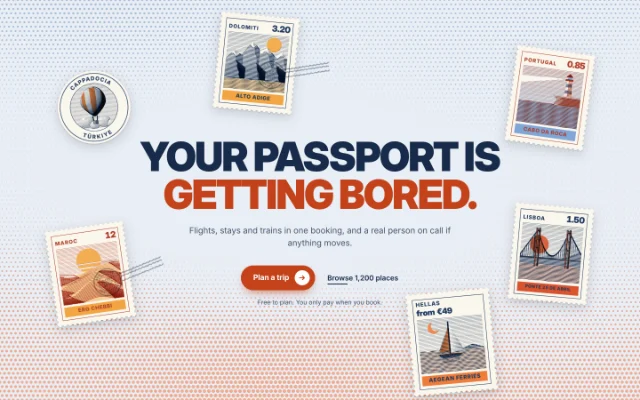
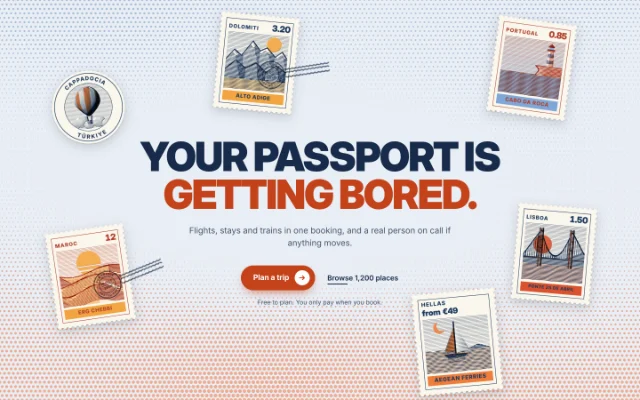
postmark-cta: round 1 fixes (voyage engravings, postmark placement and ink, CTA hover, rotated safe zone, postDelay)
Claude-Session: https://claude.ai/code/session_01LFCWVBYwCJCTStazoGiZv5

diff --git a/components/postmark-cta/postmark-cta.tsx b/components/postmark-cta/postmark-cta.tsx
@@ -103,6 +103,13 @@ export type PostmarkCtaProps = {
   ctaHref?: string
   /** Runs on click, alongside navigation when there is an href. */
   onCtaClick?: (e: PostmarkClickEvent) => void
+  /** Called when the postmark lands (on every press). */
+  onPosted?: () => void
+  /**
+   * With `ctaHref`: wait this many ms before following the link, so the postmark is seen.
+   * 0 (the default) never delays navigation; around 280 lets the slam finish.
+   */
+  postDelay?: number
   secondaryLabel?: string
   secondaryHref?: string
   onSecondaryClick?: (e: PostmarkClickEvent) => void
@@ -325,17 +332,21 @@ export const SCENES: { [k: string]: Scene } = {
       l = 1
       t = 1
     }
+    // rock strata: faint diagonal banding that the line widths pick up
+    const strata = 0.07 * Math.sin((u * 1.4 + v) * 52)
     const [b] = ridge(u, PEAK_BACK)
     if (v > b) {
-      const [fl, below] = facet(u, v, PEAK_BACK, 0.66, 0.34)
-      l = fl - (v - b) * 0.25
-      if (below < 0.09 + 0.025 * Math.sin(u * 47)) l = fl > 0.5 ? 0.995 : 0.74
+      const [fl, below] = facet(u, v, PEAK_BACK, 0.7, 0.4)
+      l = fl - (v - b) * 0.25 + strata
+      if (below < 0.085 + 0.025 * Math.sin(u * 47)) l = fl > 0.55 ? 0.995 : 0.8
+      if (v - b < 0.009) l = 0.16
       t = 0
     }
     const [f] = ridge(u, PEAK_FRONT)
     if (v > f) {
-      const [fl] = facet(u, v, PEAK_FRONT, 0.5, 0.12)
-      l = fl - (v - f) * 0.3
+      const [fl] = facet(u, v, PEAK_FRONT, 0.54, 0.27)
+      l = fl - (v - f) * 0.2 + strata
+      if (v - f < 0.01) l = 0.12
     }
     if (v > 0.8) return [0.74 + 0.08 * Math.sin(u * 30), 0.5, waves(u, v, 1)]
     return [l, t, 0]
@@ -343,16 +354,14 @@ export const SCENES: { [k: string]: Scene } = {
   lighthouse(u, v) {
     let l = sky(v)
     let t = 0
-    // the beam
-    const ang = Math.atan2(v - 0.175, u - 0.78)
-    if (u < 0.74 && Math.abs(ang - Math.PI + 0.12) < 0.07) {
-      l = 1
-      t = 0.001
-    }
     if (t === 0) t = 0.18 + 0.3 * v
     if (v >= 0.62) return [0.58 + 0.1 * Math.sin(u * 30), 0.85, waves(u, v, 1)]
     const edge = 0.58 + 0.16 * (v - 0.47) + 0.025 * Math.sin(v * 38)
-    if (v > 0.47 && u > edge) l = v < 0.5 ? 0.66 : 0.58 - 0.4 * smooth(0, 0.14, u - edge)
+    if (v > 0.47 && u > edge) {
+      t = 0
+      l = v < 0.5 ? 0.62 : 0.6 - 0.3 * smooth(0, 0.16, u - edge) + 0.08 * Math.sin((v * 2 - u) * 48)
+      if (u - edge < 0.008 || (v - 0.47 < 0.008 && v > 0.47)) l = 0.15
+    }
     // tower
     const hw = 0.04 + 0.022 * ((v - 0.2) / 0.27)
     if (v > 0.2 && v <= 0.47 && Math.abs(u - 0.78) < hw) {
@@ -376,18 +385,23 @@ export const SCENES: { [k: string]: Scene } = {
       l = 1
       t = 1
     }
+    // each layer is a row of dunes; behind each crest a slip face in shadow widens as it falls
     const layers: [number, number, number, number, number][] = [
-      [0.44, 0.06, 5.2, 0.4, 0.62],
-      [0.58, 0.08, 4.1, 2.1, 0.5],
-      [0.74, 0.07, 6.3, 1.0, 0.38],
+      [0.44, 0.06, 5.2, 0.4, 0.66],
+      [0.58, 0.08, 4.1, 2.1, 0.56],
+      [0.74, 0.07, 6.3, 1.0, 0.46],
     ]
     for (const [base, amp, fr, ph, lit] of layers) {
-      const d = base + amp * Math.sin(u * fr + ph)
+      const phi = u * fr + ph
+      const d = base + amp * Math.sin(phi)
       if (v > d) {
-        const s = Math.cos(u * fr + ph - (v - d) * 7)
-        l = (s > 0 ? lit * 0.45 : lit + 0.32) - (v - d) * 0.35
-        t = s > 0 ? 0 : 0.55
-        b = amp * Math.sin(u * fr + ph) * 0.8
+        const q = (((phi + Math.PI / 2) % (2 * Math.PI)) + 2 * Math.PI) % (2 * Math.PI) / (2 * Math.PI)
+        const depth = clamp01((v - (base - amp)) / (2 * amp + 0.12))
+        const slip = q < 0.46 * Math.sqrt(depth) + 0.02
+        l = slip ? 0.3 + 0.12 * depth : lit + 0.26 - (v - d) * 0.4 + 0.05 * Math.sin(u * 90 + v * 30)
+        t = slip ? 0.15 : 0.6
+        if (v - d < 0.007) l = 0.16
+        b = amp * Math.sin(phi) * 0.7
       }
     }
     return [l, t, b]
@@ -512,6 +526,10 @@ export const SCENES: { [k: string]: Scene } = {
       t = 1
       b = 0.035 * nz
     }
+    if (segDist(u, v, 0.61, 0.42, 0.665, 0.365) < 0.009) {
+      l = 0.14
+      t = 0
+    }
     const lf = leaf(u, v, 0.66, 0.37, 0.86, 0.2, 0.06)
     if (lf >= 0) {
       l = lf
@@ -546,7 +564,7 @@ export const SCENES: { [k: string]: Scene } = {
       const nz = Math.sqrt(1 - (1 - depth) ** 2)
       const sxy = Math.sqrt(Math.max(0, 1 - nz * nz))
       const gl = Math.hypot(gx, gy) || 1
-      l = lambert((gx / gl) * sxy, (gy / gl) * sxy, nz)
+      l = Math.max(0.2, lambert((gx / gl) * sxy, (gy / gl) * sxy, nz))
       t = 1
       b = 0.03 * nz
     }
@@ -1021,8 +1039,15 @@ const CSS = `
   transition: transform 160ms var(--pm-out), box-shadow 240ms var(--pm-out);
   -webkit-tap-highlight-color: transparent;
 }
-.pm-cta:hover { box-shadow: 0 1px 0 rgba(255,255,255,0.25) inset, 0 16px 30px -12px var(--a); }
-.pm-cta:active { transform: scale(0.97); }
+.pm-cta { overflow: hidden; isolation: isolate; }
+.pm-cta::before {
+  content: ""; position: absolute; inset: 0; z-index: -1; border-radius: inherit;
+  background: color-mix(in srgb, var(--a) 78%, var(--k));
+  transform: scaleX(0); transform-origin: left; transition: transform 260ms var(--pm-out);
+}
+.pm-cta:hover, .pm-cta:focus-visible { transform: translateY(-2px); box-shadow: 0 1px 0 rgba(255,255,255,0.25) inset, 0 18px 32px -12px var(--a); }
+.pm-cta:hover::before, .pm-cta:focus-visible::before { transform: scaleX(1); }
+.pm-cta:active { transform: translateY(0) scale(0.97); transition-duration: 100ms; }
 .pm-cta:focus-visible, .pm-link:focus-visible { outline: 3px solid var(--a); outline-offset: 4px; }
 .pm-arrow { position: relative; width: 34px; height: 34px; border-radius: 999px; background: var(--oa); color: var(--a); overflow: hidden; flex: none; }
 .pm-arrow svg { position: absolute; left: 9px; top: 9px; width: 16px; height: 16px; max-width: none; transition: transform 260ms var(--pm-out); }
@@ -1081,14 +1106,14 @@ const CSS = `
 .pm-ring-text { font: 800 7.4px/1 var(--pm-text); letter-spacing: 0.16em; fill: var(--si); text-transform: uppercase; }
 
 /* postmarks */
-.pm-mark { position: absolute; pointer-events: none; color: var(--pk); mix-blend-mode: multiply; opacity: 0.86; }
+.pm-mark { position: absolute; pointer-events: none; color: var(--pk); mix-blend-mode: multiply; opacity: 0.9; }
 .pm-mark svg { display: block; width: 100%; height: auto; max-width: none; overflow: visible; }
 .pm-mark text { font: 800 9px/1 var(--pm-text); letter-spacing: 0.12em; fill: currentColor; }
 .pm-mark .pm-date { font-size: 11px; letter-spacing: 0.04em; }
 .pm-old { left: 50%; top: 40%; width: 92%; rotate: -14deg; opacity: 0.72; }
-.pm-live { left: 6%; top: 10%; width: 150%; rotate: -9deg; }
+.pm-live { left: 30%; top: 44%; width: 108%; rotate: -9deg; }
 .pm-ghost { opacity: 0; transform: translateY(-14px) scale(1.12); transition: opacity 200ms var(--pm-out), transform 260ms var(--pm-out); }
-.pm[data-armed="true"] .pm-ghost { opacity: 0.34; transform: translateY(-8px) scale(1.06); }
+.pm[data-armed="true"] .pm-ghost { opacity: 0.5; transform: translateY(-8px) scale(1.06); }
 .pm-slam { animation: pm-slam 260ms cubic-bezier(0.3, 0, 0.2, 1) both; }
 .pm-slam .pm-bar { stroke-dasharray: 160; animation: pm-bars 300ms var(--pm-out) 70ms both; }
 
@@ -1099,7 +1124,7 @@ const CSS = `
 @keyframes pm-slam {
   0% { opacity: 0; transform: translateY(-16px) scale(1.3); }
   55% { opacity: 0.95; transform: scale(0.96); }
-  100% { opacity: 0.86; transform: scale(1); }
+  100% { opacity: 0.9; transform: scale(1); }
 }
 @keyframes pm-bars { from { stroke-dashoffset: 160; } to { stroke-dashoffset: 0; } }
 
@@ -1117,7 +1142,7 @@ const CSS = `
   .pm-par { transform: none; transition: none; }
   .pm-stamp, .pm-paper, .pm-arrow svg, .pm-link::after, .pm-ghost { transition-duration: 1ms; }
   .pm-slam, .pm-slam .pm-bar { animation: pm-fade 1ms both; }
-  @keyframes pm-fade { from { opacity: 0; } to { opacity: 0.86; } }
+  @keyframes pm-fade { from { opacity: 0; } to { opacity: 0.9; } }
 }
 `
 
@@ -1166,7 +1191,7 @@ function Postmark(props: { top: string; bottom: string; date: string; bars?: num
     const y = 50 + (i - (bars - 1) / 2) * 12.5
     let d = "M98 " + y
     for (let x = 98; x < 238; x += 12) d += " q6 " + (i % 2 ? -4.5 : 4.5) + " 12 0"
-    lines.push(<path key={i} className="pm-bar" d={d} fill="none" stroke="currentColor" strokeWidth="3.4" strokeLinecap="round" />)
+    lines.push(<path key={i} className="pm-bar" d={d} fill="none" stroke="currentColor" strokeWidth="4" strokeLinecap="round" />)
   }
   return (
     <svg viewBox="0 0 240 100" aria-hidden="true">
@@ -1271,7 +1296,7 @@ function Engraving(props: { art: StampArt; ink: string; tint: string }) {
       }
       ctx.fillStyle = PAPER
       ctx.fillRect(0, 0, W, H)
-      plate(tintImg, Math.round(0.7 * dpr), Math.round(0.5 * dpr))
+      plate(tintImg, Math.round(0.4 * dpr), Math.round(0.3 * dpr))
       ctx.globalCompositeOperation = "multiply"
       plate(inkImg, 0, 0)
       ctx.setTransform(dpr, 0, 0, dpr, 0, 0)
@@ -1406,6 +1431,8 @@ export default function PostmarkCta(props: PostmarkCtaProps) {
     textFont = TEXT_FONT,
     ctaHref,
     onCtaClick,
+    onPosted,
+    postDelay = 0,
     secondaryHref,
     onSecondaryClick,
     id,
@@ -1521,9 +1548,10 @@ export default function PostmarkCta(props: PostmarkCtaProps) {
           if (!slot || getComputedStyle(slot).display === "none") return
           const nx = parseFloat(slot.style.getPropertyValue("--nx")) || 0
           const ny = parseFloat(slot.style.getPropertyValue("--ny")) || 0
-          const r = slot.getBoundingClientRect()
+          // the rotated paper, not the upright slot
+          const r = (slot.querySelector(".pm-paper") ?? slot).getBoundingClientRect()
           const base = { left: r.left - nx, right: r.right - nx, top: r.top - ny, bottom: r.bottom - ny }
-          const [dx, dy] = clearOf(base, avoid, frame, 22)
+          const [dx, dy] = clearOf(base, avoid, frame, 24)
           slot.style.setProperty("--nx", dx.toFixed(1) + "px")
           slot.style.setProperty("--ny", dy.toFixed(1) + "px")
         })
@@ -1677,9 +1705,12 @@ export default function PostmarkCta(props: PostmarkCtaProps) {
       // never come to rest on the copy: slide to the nearest clear spot instead
       const copy = copyRef.current
       if (copy && slot) {
-        const sr = slot.getBoundingClientRect()
-        const box = { left: sr.left + b.tx, right: sr.right + b.tx, top: sr.top + b.ty, bottom: sr.bottom + b.ty }
-        const [cx, cy] = clearOf(box, copyBoxes(copy), root.getBoundingClientRect(), 22)
+        // where the rotated paper will rest: its box now, moved by the rest of the throw
+        const sr = (slot.querySelector(".pm-paper") ?? slot).getBoundingClientRect()
+        const ox = b.tx - b.x
+        const oy = b.ty - b.y
+        const box = { left: sr.left + ox, right: sr.right + ox, top: sr.top + oy, bottom: sr.bottom + oy }
+        const [cx, cy] = clearOf(box, copyBoxes(copy), root.getBoundingClientRect(), 24)
         b.tx = clamp(b.tx + cx, b.lo[0], b.lo[1])
         b.ty = clamp(b.ty + cy, b.lo[2], b.lo[3])
       }
@@ -1739,6 +1770,7 @@ export default function PostmarkCta(props: PostmarkCtaProps) {
 
   const post = () => {
     setLive((n) => n + 1)
+    window.setTimeout(() => onPosted?.(), 260)
     const st = slotRefs.current[postOn]?.querySelector(".pm-stamp")
     if (st && !window.matchMedia("(prefers-reduced-motion: reduce)").matches)
       st.animate([{ transform: "scale(1)" }, { transform: "scale(0.955)", offset: 0.3 }, { transform: "scale(1)" }], {
@@ -1766,7 +1798,14 @@ export default function PostmarkCta(props: PostmarkCtaProps) {
     onPointerLeave: disarm,
     onFocus: arm,
     onBlur: disarm,
-    onClick: (e: React.MouseEvent<HTMLElement>) => onCtaClick?.(e),
+    onClick: (e: React.MouseEvent<HTMLElement>) => {
+      onCtaClick?.(e)
+      if (!ctaHref || postDelay <= 0 || e.defaultPrevented || e.button !== 0 || e.metaKey || e.ctrlKey || e.shiftKey || e.altKey) return
+      const target = (e.currentTarget as HTMLAnchorElement).target
+      if (target && target !== "_self") return
+      e.preventDefault()
+      window.setTimeout(() => window.location.assign(ctaHref), postDelay)
+    },
   }
 
   const lines = parseHeadline(headline)
@@ -1786,11 +1825,11 @@ export default function PostmarkCta(props: PostmarkCtaProps) {
       <style>{CSS}</style>
       <svg width="0" height="0" style={{ position: "absolute" }} aria-hidden="true" focusable="false">
         <filter id={filterId} x="-10%" y="-10%" width="120%" height="120%">
-          <feTurbulence type="fractalNoise" baseFrequency="0.85" numOctaves="2" seed="7" result="n" />
-          <feColorMatrix in="n" type="matrix" values="0 0 0 0 0  0 0 0 0 0  0 0 0 0 0  0 0 0 -2.4 1.75" result="skip" />
+          <feTurbulence type="fractalNoise" baseFrequency="0.5" numOctaves="1" seed="7" result="n" />
+          <feColorMatrix in="n" type="matrix" values="0 0 0 0 0  0 0 0 0 0  0 0 0 0 0  0 0 0 -7 5.15" result="skip" />
           <feComposite in="SourceGraphic" in2="skip" operator="in" result="inked" />
-          <feTurbulence type="fractalNoise" baseFrequency="0.06" numOctaves="1" seed="3" result="w" />
-          <feDisplacementMap in="inked" in2="w" scale="2.2" xChannelSelector="R" yChannelSelector="G" />
+          <feTurbulence type="fractalNoise" baseFrequency="0.05" numOctaves="1" seed="3" result="w" />
+          <feDisplacementMap in="inked" in2="w" scale="1" xChannelSelector="R" yChannelSelector="G" />
         </filter>
       </svg>
       <canvas ref={canvasRef} className="pm-dots" aria-hidden="true" />

diff --git a/media/postmark-cta/review.md b/media/postmark-cta/review.md
@@ -1,0 +1,75 @@
+# postmark-cta: review log
+
+## Reference
+
+`reference.webp` is the closing call-to-action section of https://fynza.com (a fintech /
+travel-tech landing page), taken from the public design-gallery repository
+https://github.com/Landing-Pages-Websites/inspiration-library, entry `one-page-love-2026-0014`
+(`shots/one-page-love-2026-0014__scroll1.webp`, harvested from onepagelove).
+
+What it shows: a heavy two-line uppercase headline with one accent-coloured phrase and a single
+orange pill button in the centre, six illustrated collectible postage stamps (perforated edges,
+one round sticker, postmark cancellations, tilted) scattered around it, on a halftone dot field
+that grades from cool blue at the top to warm peach at the bottom.
+
+What was taken: the feel and layout only. No brand, copy, logo or stamp art is reused; every
+stamp subject is drawn by our own engraving renderer, and the demo copy and products are
+invented.
+
+**Why a GitHub source.** This sandbox's egress policy blocks every image host: cdn.21st.dev (the
+21st `get_inspiration` tool returned login, product-showcase and 404 results, but none of their
+preview images would download), images.unsplash.com, dribbble, awwwards, godly, land-book,
+siteinspire, mobbin, jsdelivr, unpkg, wikimedia. Public GitHub reads work, so the reference came
+from a repository of real-site screenshots. The same block is why the stamps' default art is
+generated: the component ships 16 engraved subjects and takes any photo as a duotone.
+
+## Idea gate (fresh critic)
+
+Five takes on the reference were judged:
+
+1. **postmark-cta**: closing CTA with draggable stamps and a postmark on press
+2. stamp-sheet-pricing: pricing tiers as a sheet of stamps, tear one out to choose
+3. airmail-newsletter: newsletter signup drawn as an airmail envelope
+4. stamp-album-testimonials: customer portraits as stamps hinged into an album
+5. return-to-sender-404: a 404 page as a letter returned to sender
+
+Verdict: **build #1.** Rejected #2 (stamp-sized cells hurt the comparison a pricing table
+exists for; tearing to choose is a toy that slows conversion), #3 (same job as
+wordmark-newsletter-signup; an envelope drawn round a form is decal-over-flat-UI), #4 (overlaps
+checker-quilt-testimonials; flip cards are generic; an album page drifts to beige), #5 (a
+novelty page with little reuse; a cream letter is the banned tasteful-minimal family). Folded in:
+the stamp drop-and-cancel moment (#3) and a real denomination / offer on one stamp (#2). Risks
+named: clip-art stamp art, a postmark that blocks the click, a flat cream ground, a squashed
+phone layout, jittery drag, template-looking type, a cheap postmark.
+
+## Round 1: REDO (average 7.8)
+
+| | Score |
+|---|---|
+| Usability | 8 |
+| Idea | 8 |
+| Craft | 7 |
+| Originality | 7 |
+| Install-safety | 9 |
+
+Critic's changes, most important first, and what was done:
+
+1. The default voyage scenes were the weakest (Dolomiti peaks as black slabs, a blank white
+   wedge on the Portugal headland, crude dune wedges). **Done:** peaks are outlined, faceted and
+   striated with hatched shadow faces and no solid black; the lighthouse beam (the white wedge)
+   is gone and the headland is hatched and outlined; dunes are rebuilt as curved crests with a
+   slip face in shadow that widens as it falls.
+2. The postmark covered "from €49" and its bars were grey fuzz running far past the stamp.
+   **Done:** it lands on the lower right of the art, never on the label or value; the overhang is
+   cut to about 40% of the stamp; the bars are 4-unit ink strokes with a light skip texture. Long
+   values ("from €49", "half price") now stack under the label instead of truncating it.
+3. The button did not answer hover. **Done:** the pill lifts 2 px, a darker fill floods across
+   from the left and the arrow rolls; the ghost postmark preview is at 50% so it reads.
+4. Stamps could rest touching the note. **Done:** the safe zone now measures the rotated paper
+   (not the upright slot) with a 24 px margin, both on layout and when a thrown stamp comes to
+   rest.
+5. The posting moment was never seen when the CTA navigates. **Done:** new `postDelay` (default
+   0, so navigation is never delayed unless asked; modifier-clicks and `target` links are left
+   alone) and an `onPosted` callback.
+6. Small art fixes. **Done:** the lemon's leaf has a stalk, the pear's notch is gone (a shading
+   floor), and the second-ink plate's misregistration is halved so the sun has no white halo.
